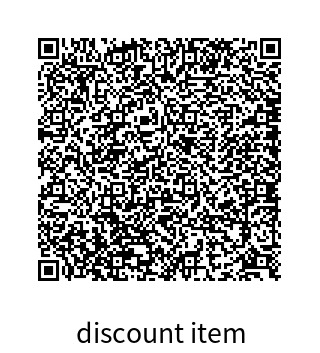
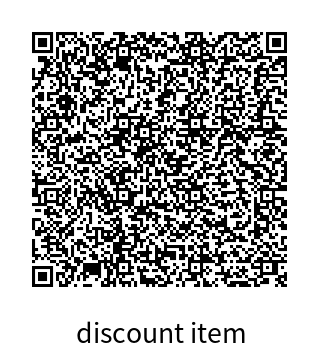
make alot of work on qrcodeprovide -generate- route represented

Changed region(s): [[0.0938, 0.0935, 0.9062, 0.8102]]

diff --git a/Src/Controllers/QRCodeProvider.php b/Src/Controllers/QRCodeProvider.php
@@ -3,8 +3,9 @@ namespace Controllers;
 
 
 use Psr\Http\Message\ResponseInterface;
-
+use Entities\DiscountItems;
 use Controllers\Header;
+use DateTime;
 
 class QRCodeProvider extends Header{
     private $container;
@@ -24,36 +25,53 @@ class QRCodeProvider extends Header{
      */
     function __invoke($req,$res,$args)
     {
+
+        // need validation
         $ratue = $args["ratue"];
-
-        $db = $this->DataBase;
         
-        $query = $db->query("insert into discount_items(discount_ratue,iat,nbf,active_state)values(?,?,?,?)",[
-            $ratue,
-            time(),
-            time() + (60*60),
-            "active"
-        ]);
+        if(1){
 
-        $id = $db->get_last_id(); 
-        
-        // if the request 1 it mean active
-        // if the request 0 it mean unactive
-        $data_to_encoded = [
-            "request" =>  self::QRCODEPROVIDER_UNACTIVE,
-            "id" => $id
-        ];
+            // obtain the doctrine entityManager
+            $em = $this->container->em;
+            
+            $discount_entity = new DiscountItems;
 
-        // encode data and convert into token
-        $data = $this->QR->jwt_encoder("HS256",$this->secret,$data_to_encoded);
+            // generate random tokens
+            $token = $this->randomTokensGenerate();
 
-        // generate a QR CODE
-        // and return the response object with body contains the png echoed
-        $qr = $this->QR->qr_generate("http://www.discountapi/process/".$data,"mypic.png");
+            // set the entity information
+            $discount_entity->setActive_state("active")
+                ->setDiscount_ratue($ratue)
+                ->setIat(new DateTime())
+                ->setNbf(new DateTime("now +1 minute"))
+                ->setToken($token);
 
-        // insert it into response returned
-        $res->getBody()->write($qr["qrcode"]);
-        return $res->withHeader("Content-Type",$qr["mimetype"]);
+            $data_to_encoded = ["token" =>  $token];
+            // make sure this record is inserted into database as well
+            if(1){
+                $em->persist($discount_entity);
+                $em->flush();
+            }
+            // encode data and convert into token
+            $data = $this->container->QR->jwt_encoder("HS256",$this->get_jwt_key(),$data_to_encoded);
+
+            // generate a QR CODE
+            $qr = $this->container->QR->qr_generate("http://www.discountapi/process/".$data,"mypic.png");
+
+            // insert it into response returned
+            $res->getBody()->write($qr["qrcode"]);
+
+            // and return the response object with body contains the png echoed
+            return $res->withHeader("Content-Type",$qr["mimetype"]);
+        }
+
+
     }
+
+    function randomTokensGenerate(){
+        return md5(uniqid());
+    }
+    
+    
 
 }

diff --git a/Src/Entities/DiscountItems.php b/Src/Entities/DiscountItems.php
@@ -15,6 +15,11 @@ class DiscountItems {
 private $id;
 
 /**
+ * @ORM\Column(type="string")
+ */
+private $token;
+
+/**
  * @ORM\Column(type="integer")
  * @var integer
  */
@@ -36,4 +41,124 @@ private $nbf;
  * @ORM\Column(type="string")
  */
 private $active_state;
+
+/**
+ * Get the value of discount_ratue
+ *
+ * @return  integer
+ */ 
+public function getDiscount_ratue()
+{
+return $this->discount_ratue;
+}
+
+/**
+ * Set the value of discount_ratue
+ *
+ * @param  integer  $discount_ratue
+ *
+ * @return  self
+ */ 
+public function setDiscount_ratue($discount_ratue)
+{
+$this->discount_ratue = $discount_ratue;
+
+return $this;
+}
+
+/**
+ * Get the value of iat
+ *
+ * @return  DateTime
+ */ 
+public function getIat()
+{
+return $this->iat;
+}
+
+/**
+ * Set the value of iat
+ *
+ * @param  DateTime  $iat
+ *
+ * @return  self
+ */ 
+public function setIat(\DateTime $iat)
+{
+$this->iat = $iat;
+
+return $this;
+}
+
+/**
+ * Get the value of nbf
+ *
+ * @return  DateTime
+ */ 
+public function getNbf()
+{
+return $this->nbf;
+}
+
+/**
+ * Set the value of nbf
+ *
+ * @param  DateTime  $nbf
+ *
+ * @return  self
+ */ 
+public function setNbf(\DateTime $nbf)
+{
+$this->nbf = $nbf;
+
+return $this;
+}
+
+/**
+ * Get the value of active_state
+ */ 
+public function getActive_state()
+{
+return $this->active_state;
+}
+
+/**
+ * Set the value of active_state
+ *
+ * @return  self
+ */ 
+public function setActive_state($active_state)
+{
+$this->active_state = $active_state;
+
+return $this;
+}
+
+/**
+ * Get the value of id
+ */ 
+public function getId()
+{
+return $this->id;
+}
+
+/**
+ * Get the value of token
+ */ 
+public function getToken()
+{
+return $this->token;
+}
+
+/**
+ * Set the value of token
+ *
+ * @return  self
+ */ 
+public function setToken($token)
+{
+$this->token = $token;
+
+return $this;
+}
 }

diff --git a/Src/Controllers/Process.php b/Src/Controllers/Process.php
@@ -17,7 +17,7 @@ class Process extends \Controllers\Header{
      */
     function __invoke($req , $res, $args){
         $token = $args["data"];
-        if($token = $this->QR->check_valid_jwt_token($token))
+        if($token = $this->container->QR->check_valid_jwt_token($token))
         {
             // here processing with database
         }

diff --git a/index.php b/index.php
@@ -3,7 +3,6 @@ use Slim\App as myapp;
 use Controllers\QRCodeProvider;
 use Controllers\Process;
 use Firebase\JWT\JWT;
-use MyDeps\Database\DataBase;
 use MyDeps\QRUtility\QR;
 
 require_once "vendor/autoload.php";
